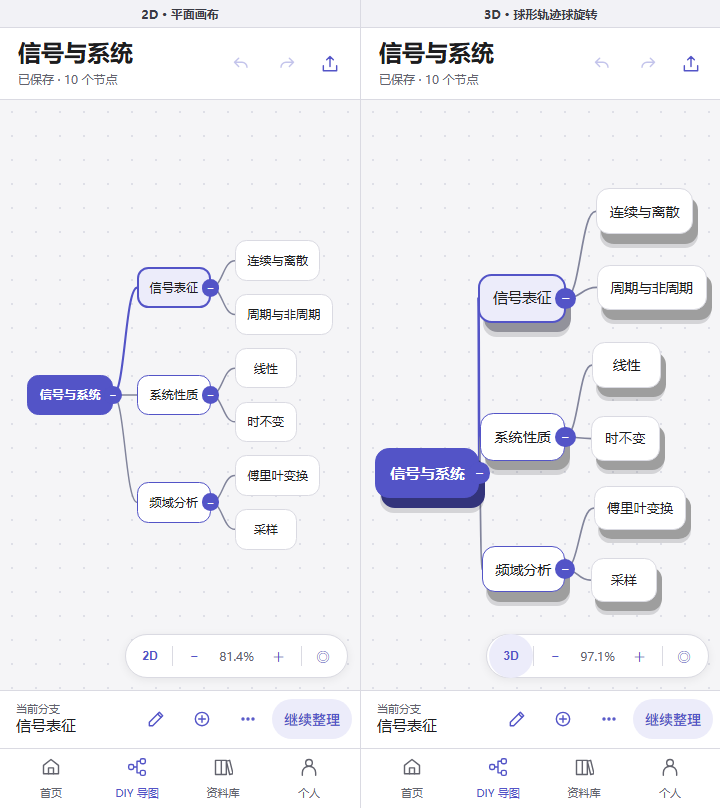
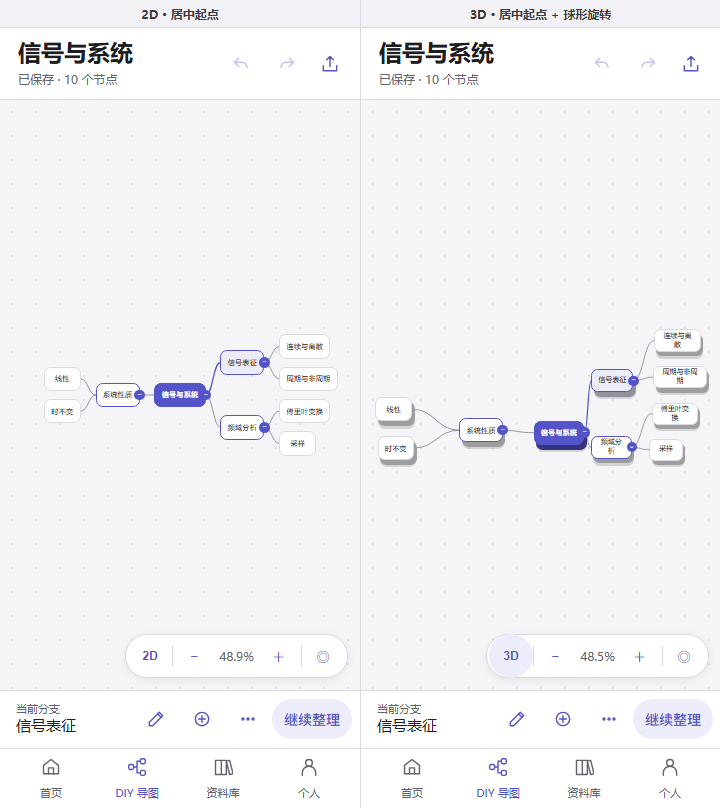
feat(diy): center the 3D root with a two-sided layout
- 3D rebuilds the scene with a symmetric centered layout; 2D keeps the document layout
- alternate first-level branches left and right so the root stays at the orbit origin
- make connectors side-aware for left-growing branches
- add center-layout and root-orbit tests; update the interactive preview and images

diff --git a/docs/design/diy-preview.html b/docs/design/diy-preview.html
@@ -130,7 +130,8 @@
         <button data-mode="3d">3D</button>
       </div>
       <div class="row">
-        <button data-layout="right" class="active">向右布局</button>
+        <button data-layout="center" class="active">居中起点</button>
+        <button data-layout="right">向右布局</button>
         <button data-layout="down">向下布局</button>
       </div>
       <div class="row">
@@ -142,7 +143,7 @@
     </div>
     <div class="meta">
       <div>视图：<b id="meta-mode">2D</b></div>
-      <div>布局：<b id="meta-layout">向右</b></div>
+      <div>布局：<b id="meta-layout">居中</b></div>
       <div>缩放：<b id="meta-zoom">—</b></div>
       <div>选中：<b id="meta-selected">信号表征</b></div>
     </div>
@@ -218,7 +219,7 @@
   const state = {
     sample: params.get('sample') === 'complex' ? 'complex' : 'simple',
     mode: params.get('mode') === '3d' ? '3d' : '2d',
-    layout: params.get('layout') === 'down' ? 'down' : 'right',
+    layout: params.get('layout') === 'down' || params.get('layout') === 'right' ? params.get('layout') : 'center',
     selectedId: 'signal',
     zoom: 1,
     panX: 0,
@@ -281,6 +282,7 @@
       return total;
     };
     for (const id of children.keys()) count(id);
+    if (doc.layout === 'center') return layoutCentered(root, children, sizes, counts);
     const scene = {nodes: [], width: 0, height: 0};
     const spans = new Map();
     const down = doc.layout === 'down';
@@ -303,7 +305,7 @@
         y: down ? axis : cross + (span - size.h) / 2,
         w: size.w, h: size.h, lines: size.lines, collapsed: node.collapsed,
         childCount: all.length, hiddenCount: node.collapsed ? (counts.get(node.id) || 0) : 0,
-        image: node.image, note: node.note, tag: node.tag
+        image: node.image, note: node.note, tag: node.tag, side: ''
       };
       scene.nodes.push(box);
       scene.width = Math.max(scene.width, box.x + box.w + 16);
@@ -317,6 +319,86 @@
     };
     measure(root, 0);
     place(root, 0, 16, 16);
+    return scene;
+  }
+
+  function layoutCentered(root, children, sizes, counts) {
+    const scene = {nodes: [], width: 0, height: 0};
+    const info = new Map();
+    const measure = (node, depth) => {
+      const size = sizes.get(node.id);
+      const kids = node.collapsed || depth >= 8 ? [] : (children.get(node.id) || []);
+      let total = 0;
+      for (const child of kids) total += measure(child, depth + 1) + 16;
+      const childTotal = kids.length ? total - 16 : 0;
+      const span = Math.max(size.h, childTotal);
+      info.set(node.id, {span, childTotal, kids, size});
+      return span;
+    };
+    const makeBox = (node, depth, cx, cy, side) => {
+      const size = sizes.get(node.id);
+      const all = children.get(node.id) || [];
+      scene.nodes.push({
+        id: node.id, parentId: node.parentId, text: node.text, depth,
+        x: cx - size.w / 2, y: cy - size.h / 2, w: size.w, h: size.h, lines: size.lines,
+        collapsed: node.collapsed, childCount: all.length,
+        hiddenCount: node.collapsed ? (counts.get(node.id) || 0) : 0,
+        image: node.image, note: node.note, tag: node.tag, side
+      });
+    };
+    const place = (node, depth, cx, cy, side) => {
+      const item = info.get(node.id);
+      makeBox(node, depth, cx, cy, side);
+      if (!item.kids.length) return;
+      let cursor = cy - item.childTotal / 2;
+      for (const child of item.kids) {
+        const childInfo = info.get(child.id);
+        const childCy = cursor + childInfo.span / 2;
+        const childCx = side === 'right'
+          ? cx + item.size.w / 2 + 30 + childInfo.size.w / 2
+          : cx - item.size.w / 2 - 30 - childInfo.size.w / 2;
+        place(child, depth + 1, childCx, childCy, side);
+        cursor += childInfo.span + 16;
+      }
+    };
+    const rootSize = sizes.get(root.id);
+    const list = (children.get(root.id) || []).slice();
+    const right = [];
+    const left = [];
+    list.forEach((child, index) => { (index % 2 === 0 ? right : left).push(child); });
+    for (const child of list) measure(child, 1);
+    const sideSpan = items => items.reduce((sum, child) => sum + info.get(child.id).span, 0) +
+      Math.max(0, items.length - 1) * 16;
+    const rightSpan = sideSpan(right);
+    const leftSpan = sideSpan(left);
+    makeBox(root, 0, 0, 0, '');
+    let cursor = -rightSpan / 2;
+    for (const child of right) {
+      const childInfo = info.get(child.id);
+      place(child, 1, rootSize.w / 2 + 30 + childInfo.size.w / 2, cursor + childInfo.span / 2, 'right');
+      cursor += childInfo.span + 16;
+    }
+    cursor = -leftSpan / 2;
+    for (const child of left) {
+      const childInfo = info.get(child.id);
+      place(child, 1, -rootSize.w / 2 - 30 - childInfo.size.w / 2, cursor + childInfo.span / 2, 'left');
+      cursor += childInfo.span + 16;
+    }
+    let minX = Infinity;
+    let minY = Infinity;
+    let maxX = -Infinity;
+    let maxY = -Infinity;
+    for (const box of scene.nodes) {
+      minX = Math.min(minX, box.x);
+      minY = Math.min(minY, box.y);
+      maxX = Math.max(maxX, box.x + box.w);
+      maxY = Math.max(maxY, box.y + box.h);
+    }
+    const halfW = Math.max(-minX, maxX) + 16;
+    const halfH = Math.max(-minY, maxY) + 16;
+    for (const box of scene.nodes) { box.x += halfW; box.y += halfH; }
+    scene.width = halfW * 2;
+    scene.height = halfH * 2;
     return scene;
   }
 
@@ -457,7 +539,12 @@
         const sx = a.x, sy = a.y + a.h / 2, ex = b.x, ey = b.y - b.h / 2, mid = (sy + ey) / 2;
         d = `M${sx} ${sy} C${sx} ${mid} ${ex} ${mid} ${ex} ${ey}`;
       } else {
-        const sx = a.x + a.w / 2, sy = a.y, ex = b.x - b.w / 2, ey = b.y, mid = (sx + ex) / 2;
+        const leftSide = node.side === 'left';
+        const sx = leftSide ? a.x - a.w / 2 : a.x + a.w / 2;
+        const sy = a.y;
+        const ex = leftSide ? b.x + b.w / 2 : b.x - b.w / 2;
+        const ey = b.y;
+        const mid = (sx + ex) / 2;
         d = `M${sx} ${sy} C${mid} ${sy} ${mid} ${ey} ${ex} ${ey}`;
       }
       const width = (onBranch ? 2.6 : 1.8) * state.zoom * ((a.scale + b.scale) / 2);
@@ -565,7 +652,7 @@
     document.getElementById('status').textContent = '已保存 · ' + scene.nodes.length + ' 个节点';
     zoomLabel.textContent = state.zoom > 0 ? (Math.round(state.zoom * 1000) / 10) + '%' : '—';
     document.getElementById('meta-mode').textContent = state.mode === '3d' ? '3D' : '2D';
-    document.getElementById('meta-layout').textContent = state.layout === 'down' ? '向下' : '向右';
+    document.getElementById('meta-layout').textContent = state.layout === 'down' ? '向下' : state.layout === 'center' ? '居中' : '向右';
     document.getElementById('meta-zoom').textContent = zoomLabel.textContent;
     document.getElementById('meta-selected').textContent = selectedNode.text;
     document.getElementById('mode-btn').textContent = state.mode === '3d' ? '3D' : '2D';
@@ -584,7 +671,9 @@
   }
   function settleView() {
     render();
-    if (state.sample === 'complex') focusOn(state.selectedId, 0.62);
+    if (state.sample === 'complex') {
+      focusOn(state.layout === 'center' ? rootId : state.selectedId, 0.62);
+    }
   }
   function setSample(sample) {
     state.sample = sample;

diff --git a/docs/design/compare-complex.html b/docs/design/compare-complex.html
@@ -16,8 +16,8 @@
 </head>
 <body>
 <div class="row">
-  <div class="col"><div class="cap">2D · 图像节点</div><iframe src="diy-preview.html?sample=complex&amp;mode=2d&amp;embed=1" title="2D 复杂图像预览"></iframe></div>
-  <div class="col"><div class="cap">3D · 球形旋转 + 图像节点</div><iframe src="diy-preview.html?sample=complex&amp;mode=3d&amp;embed=1" title="3D 复杂图像预览"></iframe></div>
+  <div class="col"><div class="cap">2D · 居中起点 + 图像节点</div><iframe src="diy-preview.html?sample=complex&amp;mode=2d&amp;embed=1" title="2D 复杂图像预览"></iframe></div>
+  <div class="col"><div class="cap">3D · 居中起点 + 球形旋转 + 图像节点</div><iframe src="diy-preview.html?sample=complex&amp;mode=3d&amp;embed=1" title="3D 复杂图像预览"></iframe></div>
 </div>
 </body>
 </html>

diff --git a/docs/design/compare.html b/docs/design/compare.html
@@ -16,8 +16,8 @@
 </head>
 <body>
 <div class="row">
-  <div class="col"><div class="cap">2D · 平面画布</div><iframe src="diy-preview.html?mode=2d&amp;embed=1" title="2D 预览"></iframe></div>
-  <div class="col"><div class="cap">3D · 球形轨迹球旋转</div><iframe src="diy-preview.html?mode=3d&amp;embed=1" title="3D 预览"></iframe></div>
+  <div class="col"><div class="cap">2D · 居中起点</div><iframe src="diy-preview.html?mode=2d&amp;embed=1" title="2D 预览"></iframe></div>
+  <div class="col"><div class="cap">3D · 居中起点 + 球形旋转</div><iframe src="diy-preview.html?mode=3d&amp;embed=1" title="3D 预览"></iframe></div>
 </div>
 </body>
 </html>

diff --git a/docs/implementation/diy-result.md b/docs/implementation/diy-result.md
@@ -43,6 +43,6 @@
 - **候选确认**：预览条显示节点数与修改范围，补充“应用后可一次撤销”；“确认应用”按 1.8 倍宽度成为主操作，“放弃候选”降为次要；过期候选改用危险色并禁用确认。
 - **对话面板**：修改范围改为浅紫卡片，非根节点提供“改为整图”；生成中同时显示进度与范围；输入框/发送按钮固定在底部，发送按钮禁用时显式降透明度。
 - **空图提示**：仅单根节点时显示“从根节点开始”，不拦截画布手势。
-- **2D / 3D 双视图**：缩放条最左侧新增切换按钮。2D 保持平面树；3D 使用 3×3 朝向矩阵和透视相机，默认朝向为 yaw −20° / pitch 20°。节点按 `(x, y, depth*70)` 投影并透视缩放，投影前按层级展开树间距避免卡片重叠。卡片保持正面朝向，绘制“投影阴影 + 右下厚度面 + 顶面”，按相机深度从远到近绘制，选中卡片补绘到最上。
+- **2D / 3D 双视图**：缩放条最左侧新增切换按钮。2D 保持文档的向右/向下平面树；3D 改用居中双向布局，根节点位于场景中心和轨道原点，一级分支左右交替展开。3D 使用 3×3 朝向矩阵和透视相机，默认朝向为 yaw −20° / pitch 20°。节点按 `(x, y, depth*70)` 投影并透视缩放，投影前按层级展开树间距避免卡片重叠。卡片保持正面朝向，绘制“投影阴影 + 右下厚度面 + 顶面”，按相机深度从远到近绘制，选中卡片补绘到最上。
 - **3D 交互**：单指拖动按轨迹球自由旋转——拖动方向决定相机空间旋转轴，没有俯仰上限，也没有万向锁；双指拖动平移、双指捏合缩放；右下角“复位”恢复默认朝向并适应画布。连线、徽标、选中路径和命中测试都使用投影坐标；导出仍使用完整 2D 树。
-- **验证**：`npm run check` 通过；`npm test` 130 项全部通过（画布 38 项）。新增 14 项画布测试覆盖隐藏后代计数、选中分支、折叠徽标，以及 3D 投影、轨迹球旋转、200/500 节点适应、3D 命中、3D 绘制、500 卡片绘制、旋转手势、默认角度不重叠和 2D/3D 切换。本机无 HarmonyOS SDK/真机，未做 ArkTS 编译、原生预览、键盘与手势验收；[2D/3D 对照图](../design/README.md)由预览页面生成，不是原生截图。
+- **验证**：`npm run check` 通过；`npm test` 132 项全部通过（画布 40 项）。新增 16 项画布测试覆盖隐藏后代计数、选中分支、折叠徽标，以及 3D 居中双向布局、根节点轨道中心、轨迹球旋转、200/500 节点适应、3D 命中、3D 绘制、500 卡片绘制、旋转手势、默认角度不重叠和 2D/3D 切换。本机无 HarmonyOS SDK/真机，未做 ArkTS 编译、原生预览、键盘与手势验收；[2D/3D 对照图](../design/README.md)由预览页面生成，不是原生截图。

diff --git a/docs/implementation/diy-design.md b/docs/implementation/diy-design.md
@@ -32,6 +32,7 @@
 **2D（默认）**：平面树布局，节点与连线保持固定间距，适合精确编辑和大量节点阅读。
 
 **3D（球形轨迹球旋转）**：
+- 3D 使用居中双向布局：根节点位于场景中心，一级分支左右交替展开，子分支向外生长；2D 仍保持文档的向右/向下布局。3D 的轨道旋转以根节点为原点，所以“起点”始终居中。
 - 节点中心先按 `(x, y, depth*70)` 放到三维空间，再乘一个 3×3 朝向矩阵，最后做透视除法 `distance / (distance + z)`。默认朝向由 yaw −20°、pitch 20° 的矩阵给出，相机距离随场景尺寸增大。
 - 拖动不是简单的 yaw/pitch 角度累加，而是轨迹球：以拖动方向在相机空间构造旋转轴，按拖动距离构造增量旋转矩阵，再乘到起始朝向上。任意方向拖动都能连续旋转，没有俯仰上限，也没有欧拉角的万向锁死点。
 - 投影前按层级把树稍微展开（`fan = 1 + min(0.5, depth*0.15)`），避免旋转后父子卡片挤在同一屏幕区域；这不是缩放卡片，只展开节点位置。
@@ -84,7 +85,7 @@
 ## 已实现与验证
 
 - 代码：`entry/src/main/ets/canvas/MapLayout.ets`、`canvas/MindMapCanvas.ets`、`ui/DIYPage.ets`。
-- 自动化：`tools/tests/canvas-layout.mjs` 新增 14 项：隐藏后代计数、选中分支绘制、折叠徽标计数，以及 3D 投影递进、yaw/pitch 旋转、3D 适应画布（200/500 节点、三组角度）、3D 命中、3D 绘制、500 卡片绘制、单指旋转/俯仰限制/复位、默认角度卡片不重叠、2D/3D 切换重排；全套 130 项通过，其中画布 38 项。
+- 自动化：`tools/tests/canvas-layout.mjs` 新增 16 项：隐藏后代计数、选中分支绘制、折叠徽标计数、居中双向布局与根节点居中、3D 轨道中心、3D 投影递进、轨迹球旋转、3D 适应画布（200/500 节点、四组角度）、3D 命中、3D 绘制、500 卡片绘制、轨迹球取消/复位、默认角度卡片不重叠、2D/3D 切换重排；全套 132 项通过，其中画布 40 项。
 - 静态检查：`npm run check` 通过（18 个 ArkTS 文件、双主题对比度）。
 - 未验证：本机没有 HarmonyOS SDK 与真机，未做 ArkTS 编译、原生预览、软键盘、双指手势、200/500 节点真机压力；现有 `docs/screenshots/diy*.jpg` 为本轮设计调整前的原生预览，不能作为新视觉的验收截图。`docs/design/diy-2d-3d-preview.png` 是 Node 计算生成的设计对照，也不是原生截图。
 

diff --git a/docs/design/README.md b/docs/design/README.md
@@ -4,17 +4,17 @@
 
 双击 [diy-preview.html](diy-preview.html) 在浏览器中打开。页面内可以：
 
-- 点击 `2D / 3D` 切换平面画布和球形旋转透视画布；
+- 点击 `2D / 3D` 切换平面画布和球形旋转透视画布；3D 根节点固定在画面中心；
 - 2D 拖动平移；3D 单指拖动像转球一样自由旋转，滚轮缩放，点 `◎` 适应画布，点 `复位球体` 回到默认朝向；
 - 点击节点选中，点击节点右侧 `− / +N` 折叠或展开分支；
-- 切换向右/向下布局，观察两种视图的重新排布。
+- 切换居中起点 / 向右 / 向下布局；居中起点把根节点放在场景和轨道中心，一级分支左右展开。
 
 ![2D 与 3D 画布对照](diy-2d-3d-preview.png)
 
 这张图由 [compare.html](compare.html) 调用同一份交互预览生成，用于对照 2D 和 3D 的视觉差异。**它不是鸿蒙 SDK Previewer 或真机截图，不能作为设备验收证据**；外壳（标题栏、底栏、导航）只是等尺寸示意。投影数值以源码为准。
 
-- 左：2D，节点保持平面布局，选中分支整条高亮。
-- 右：3D，轨迹球自由旋转与透视缩放；卡片保持正面朝向（billboard），带阴影和厚度面，选中路径仍用强调色。
+- 左：2D，居中起点布局，根节点在画面中心，分支左右展开，选中分支整条高亮。
+- 右：3D，根节点在轨道中心，轨迹球自由旋转与透视缩放；卡片保持正面朝向（billboard），带阴影和厚度面，选中路径仍用强调色。
 - 3D 在投影前按层级稍微展开树间距，避免旋转后父子卡片挤在一起。
 - 真机上的字体实绘、触控命中、双指缩放、深色和软键盘仍需按 [DIY 设计说明](../implementation/diy-design.md) 补测。
 

diff --git a/docs/screenshots/README.md b/docs/screenshots/README.md
@@ -11,4 +11,4 @@
 
 [320 × 640 vp 小屏首页](home-small.jpg) · [深色画布](diy-dark.jpg) · [飞书计划与逐页微调说明](https://nankai.feishu.cn/wiki/NVVxw1k9Sifu0okTLslcz0dRnbh)
 
-> 2026-11-23：DIY 画布已改为“克制层级”视觉（选中分支整条高亮、一级节点细描边、折叠徽标显示隐藏数量、底部单行工具栏），并新增 2D / 3D 切换；3D 支持单指旋转透视、双指平移/缩放和复位视角。本目录现有 `diy*.jpg` 是调整前的原生预览，不能代表新视觉；候选确认、键盘弹出和真机手势截图仍待 SDK/设备补拍，详见 [DIY 设计说明](../implementation/diy-design.md)。[2D/3D 对照图](../design/README.md)由预览页面生成，不是原生截图。
+> 2026-11-23：DIY 画布已改为“克制层级”视觉（选中分支整条高亮、一级节点细描边、折叠徽标显示隐藏数量、底部单行工具栏），并新增 2D / 3D 切换；3D 支持根节点居中、单指球形旋转、双指平移/缩放和复位视角。本目录现有 `diy*.jpg` 是调整前的原生预览，不能代表新视觉；候选确认、键盘弹出和真机手势截图仍待 SDK/设备补拍，详见 [DIY 设计说明](../implementation/diy-design.md)。[2D/3D 对照图](../design/README.md)由预览页面生成，不是原生截图。

diff --git a/docs/部署与演示.md b/docs/部署与演示.md
@@ -40,7 +40,7 @@ npm run build:harmony
 
 ### 1. 首次生成
 
-首页输入“整理信号与系统的核心知识，按时域、频域、系统性质和应用组织” → 点击生成 → 显示进度 → 完整导图出现并自动保存。编辑一个中文节点、增加子节点，打开源文检查原始输入。在画布右下角切换 2D / 3D，3D 下单指像转球一样自由旋转、双指平移/缩放、点“复位”回到默认朝向；确认两种视图都能选中、折叠，切换后自动适应画布；导出仍应为完整 2D 树。再粘贴一段20,000字以内长文重复；未配置时应明确报错，不展示伪造AI结果。
+首页输入“整理信号与系统的核心知识，按时域、频域、系统性质和应用组织” → 点击生成 → 显示进度 → 完整导图出现并自动保存。编辑一个中文节点、增加子节点，打开源文检查原始输入。在画布右下角切换 2D / 3D，3D 起点居中，单指像转球一样自由旋转、双指平移/缩放、点“复位”回到默认朝向；确认两种视图都能选中、折叠，切换后自动适应画布；导出仍应为完整 2D 树。再粘贴一段20,000字以内长文重复；未配置时应明确报错，不展示伪造AI结果。
 
 ### 2. 对话修改、冲突与撤销
 

diff --git a/README.md b/README.md
@@ -1,6 +1,6 @@
 # FlowSpace · AI 思维导图
 
-在鸿蒙手机上把一个主题或一段长文整理成树状导图。画布支持 2D 平面和球形自由旋转的 3D 卡片两种视图，可以选中分支继续对话，先预览 AI 的修改，再决定是否应用。节点可手动增删、改名、移动或折叠。文档保存在本机，支持 PNG 全图、Markdown 和 JSON 备份。
+在鸿蒙手机上把一个主题或一段长文整理成树状导图。画布支持 2D 平面和球形自由旋转、根节点居中的 3D 卡片两种视图，可以选中分支继续对话，先预览 AI 的修改，再决定是否应用。节点可手动增删、改名、移动或折叠。文档保存在本机，支持 PNG 全图、Markdown 和 JSON 备份。
 
 ## 在电脑上试一遍
 
